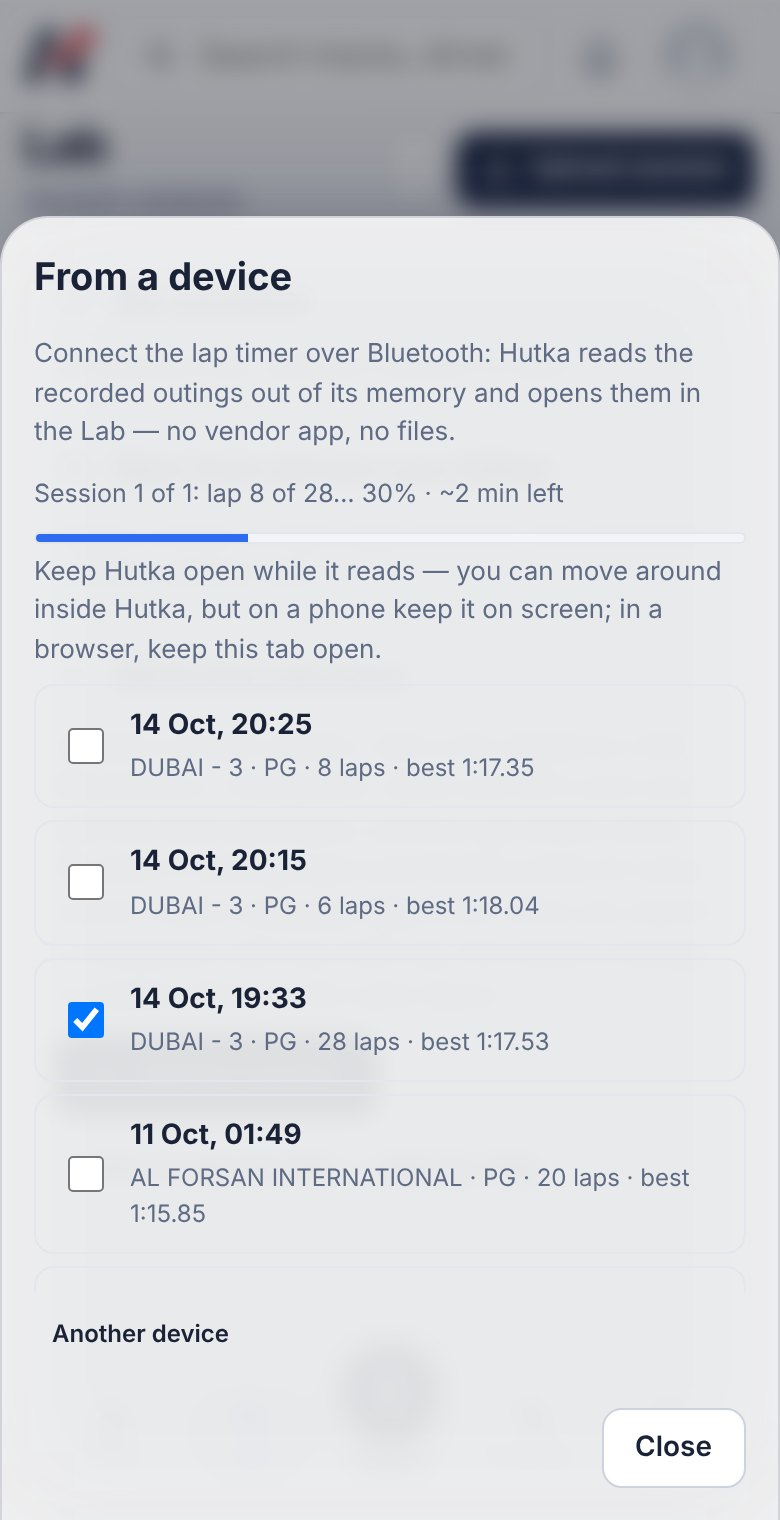
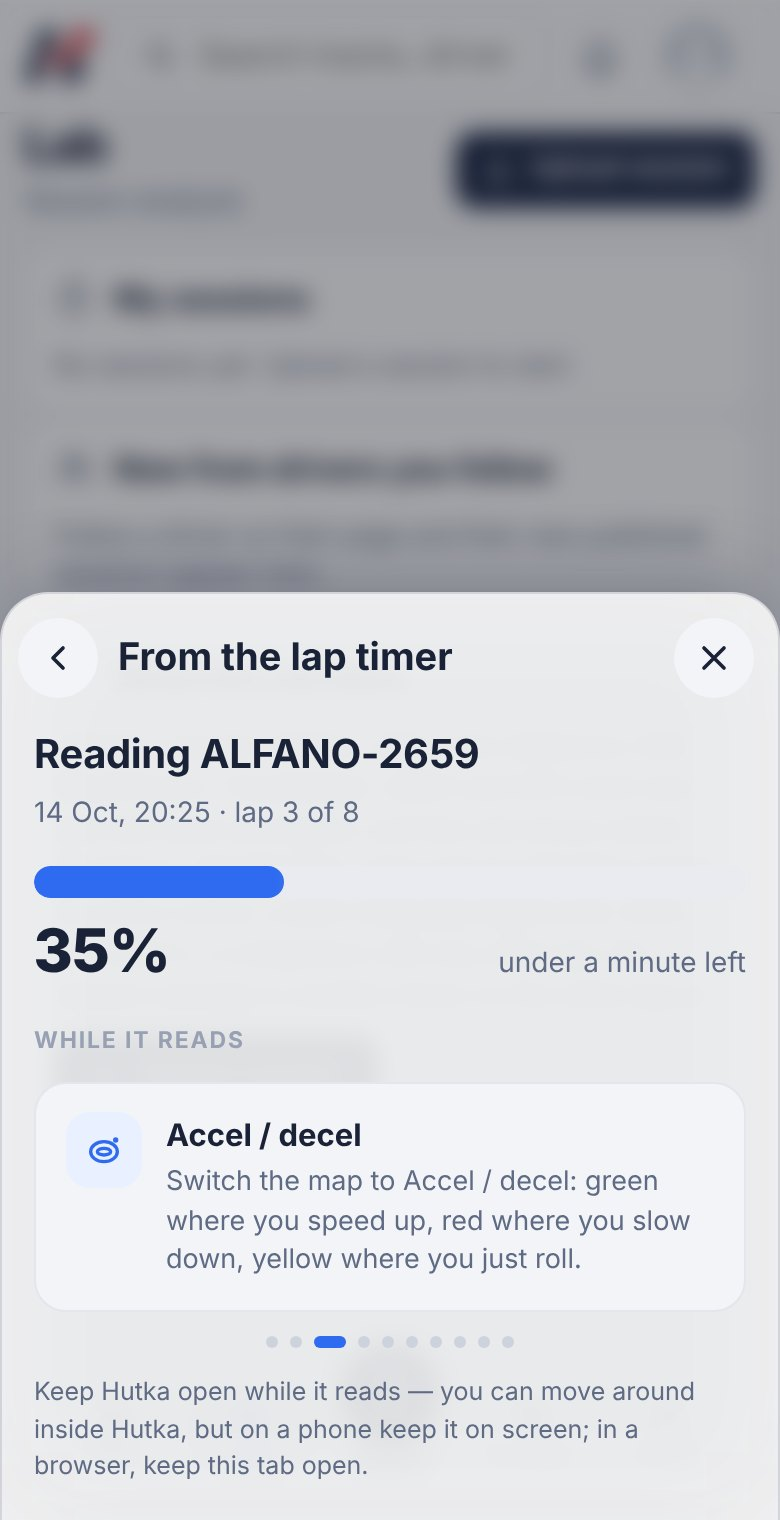
v34.26.1: the guide's pictures retaken on a phone for the new upload — Upload in the bottom bar, the upload sheet (From the lap timer / Choose a file), the lap timer found, the list with the last day ticked and 'Upload 3 sessions', the read screen; ADA step 6 shows the 'Finishing touches' card with 
Claude-Session: https://claude.ai/code/session_01KYWvxfNnvodDW4Npmresu6

diff --git a/index.html b/index.html
@@ -6504,7 +6504,7 @@ function renderHelpPage() {
   a.appendChild(step(3, t('Save the file on the phone'), `<b>${esc(t('With the Hutka app:'))}</b> ${esc(t('tap Hutka in the row of apps — the session opens in the upload window straight away, steps 4–5 are not needed.'))} <span class="hint">${esc(t('Hutka at the front of that row, once and for all: iPhone — scroll the app row to the end → More → Edit → “+” next to Hutka (Favourites), then drag it to the top; Android — hold Hutka in the share sheet → Pin.'))}</span><br><b>${esc(t('Without the app:'))}</b> <b>iPhone:</b> ${esc(t('tap “Save to Files”, choose a folder (Downloads is fine), tap Save.'))} <b>Android:</b> ${esc(t('choose “Save” / “Downloads”.'))}<br><span class="hint">${esc(t('The file name starts with ALFANO7 and ends with .alf2. A shortcut that also works: share it to yourself in Telegram or WhatsApp — you can pick it from there in the next step.'))}</span>`));
   a.appendChild(step(4, t('Open hutka.ai and tap Upload'), esc(t('The round button in the middle of the bottom bar (on a computer — “Upload session” at the top right of the Lab). Sign in first if you have not — it takes one email.')), 'hutka-upload.jpg'));
   a.appendChild(step(5, t('Choose the file'), esc(t('Tap “Choose a file”, then find your .alf2: iPhone — Browse → Downloads (or the Telegram / WhatsApp folder); Android — Downloads.')), 'hutka-choose.jpg'));
-  a.appendChild(step(6, t('Finishing touches, Publish'), esc(t('The session opens in the Lab at once: the track found by GPS, the layout recognised by the shape of your laps, the kart most people drive there — private for now. The “Finishing touches” card asks the layout if Hutka is not sure, the session type and your place. Publish lets other drivers compare with you; “Keep it private” keeps it yours.')), 'hutka-form.jpg'));
+  a.appendChild(step(6, t('Finishing touches, Publish'), esc(t('The session opens in the Lab at once: the track found by GPS, the layout recognised by the shape of your laps, the kart most people drive there — private for now. The “Finishing touches” card asks the layout if Hutka is not sure, the session type and your place. Publish lets other drivers compare with you; “Keep it private” keeps it yours.')), 'hutka-finish.jpg'));
   box.appendChild(a);
   // other loggers
   const o = card(t('Other loggers and apps'), t('Any of these files works the same way: save it on the phone or computer, then Upload → Choose a file.'));
@@ -6513,7 +6513,7 @@ function renderHelpPage() {
   const f = card(t('Stuck?'), ''); f.innerHTML += `<p>${esc(t('Send the file to the person who invited you — uploading it for you takes a minute. Or press the bug button in the corner of any page and describe what happened.'))}</p>`; box.appendChild(f);
 }
 // ---------- bug reports: the small button in the corner; the last few script errors travel with the report ----------
-const APP_VERSION = 'v34.26';
+const APP_VERSION = 'v34.26.1';
 // a heartbeat once a minute while the tab is visible and was touched in the last five minutes: visit length for the analytics
 (() => { let lastTouch = Date.now(); const touch = () => { lastTouch = Date.now(); }; for (const ev of ['pointerdown', 'keydown', 'wheel', 'touchstart']) addEventListener(ev, touch, { passive: true }); addEventListener('scroll', touch, { passive: true });
   setInterval(() => { if (document.visibilityState !== 'visible' || Date.now() - lastTouch > 5 * 60000) return; if (typeof STORE !== 'undefined' && STORE.track) STORE.track('hb', { route: APP.route || '' }); }, 60000); })();

diff --git a/README.md b/README.md
@@ -201,6 +201,9 @@ window.HUTKA_CONFIG = {
 ### Превью ссылки (v29.4)
 Когда ссылку на hutka.ai кидают в Telegram / WhatsApp / iMessage / соцсети, показывается карточка: логотип, «Hutka — racing AI for karting», описание и картинка (`og.png`, 1200×630). Теги Open Graph и Twitter card — в `<head>`. Telegram кэширует превью: если показывает старое — боту @WebpageBot отправить ссылку, он обновит. Картинка одна на весь сайт (страницы — хэш-роуты, их краулеры не видят).
 
+### Справка под новую загрузку (v34.26.1)
+Картинки в справке пересняты на телефоне под окна v34.22–v34.25: кнопка Upload внизу (`hutka-upload.jpg`), окно загрузки с «From the lap timer» и с «Choose a file» (`hutka-device.jpg`, `hutka-choose.jpg`), найденный ALFANO-2659 (`hutka-device-scan.jpg`), список с отмеченным последним днём и «Upload 3 sessions» (`hutka-device-sessions.jpg`), экран чтения с процентом и подсказкой (`hutka-device-reading.jpg`). Шаг 6 ADA показывает карточку «Finishing touches» с узнанной конфигурацией и обведённой «Publish» — новая `hutka-finish.jpg` вместо старой формы (`hutka-form.jpg` в репозитории остаётся, на неё больше никто не ссылается). Делаются скриптами `shots_guide.js` (эмулятор Alfano, линии конфигураций — четыре эталона Dubai Kartdrome под выдуманным пилотом) и `make_help_guide.py` (красная рамка/кольцо).
+
 ### Правки Паши, часть 7 (v34.26): нет интернета на трассе — сессии ждут на телефоне
 - **Пункт 9.** Прибор читается по Bluetooth и без интернета, а вот сохранить в облако было некуда: раньше выходила ошибка, и читать приходилось заново. Теперь, если сохранение упало из-за сети (нет связи, «Failed to fetch», таймаут), прочитанные файлы как есть кладутся на сам телефон (IndexedDB, хранилище `kv`, записи `outbox:*`, привязаны к пользователю). Окно говорит: «No internet right now — the session is kept on this phone and uploads by itself as soon as the connection is back.»
 - **Загружаются сами**: когда появилась сеть (событие `online`), когда вернулся в приложение, при запуске и раз в минуту, пока что-то ждёт. Пачка одного чтения уходит вместе, как обычная загрузка: приватный черновик, конфигурация по форме кругов; уже загруженное второй раз не сохраняется. Тост: «1 session from the lap timer is uploaded — it is in your Lab.»
